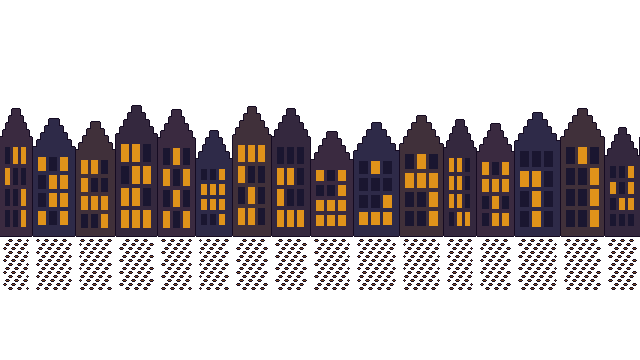
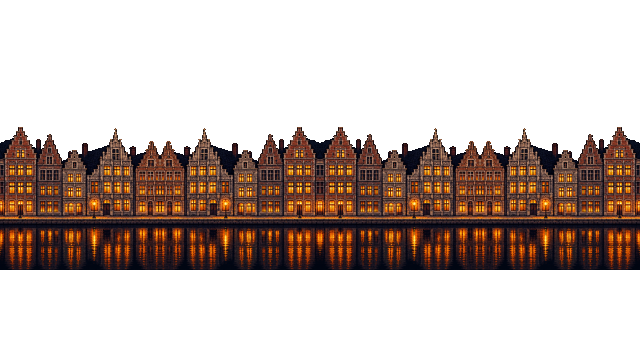
Ghent world: Higgsfield layers (Graslei, Gravensteen, canal)
Claude-Session: https://claude.ai/code/session_01QtD76jZP7ynNj9DKqbs7sk

diff --git a/src/levels/worlds/ghent.js b/src/levels/worlds/ghent.js
@@ -1,7 +1,8 @@
 // WORLD: GHENT, charlotte-de-witte's world: Ghent at night: the ink-blue canal with amber reflections, the stepped gables of the Graslei as a rooftop route, then Gravensteen castle (levels-input/charlotte-de-witte/world 01, 03, 05, 06).
 // Looks only. Gameplay files (src/levels/gameplay/) name this world but never change it.
-// Art: tools/world_djs.py draws the four layers into src/art/world/ghent/ (a first pass, made to be
-// redrawn); the 'layers' builder in src/art/background.js puts them together.
+// Art: made in Higgsfield (pictures in project files art/worlds/ghent/), shrunk into
+// src/art/world/ghent/ with `python3 tools/hf_world.py <dir> ghent far=0.6,0.6,0.62 mid=0.5,0.75,0.5
+// near=0.7,0.765,0.5 repeat=mid:2 seam=mid:mirror dim=near:0.9`; the 'layers' builder in src/art/background.js puts them together.
 export default {
   id: 'ghent',
   name: 'GHENT', // top bar
@@ -13,10 +14,10 @@ export default {
   tiles: 'tiles', // tileset (src/art/world/tiles.png, shared for now)
   pit: 'black',
   layers: [
-    'sky: night sky over the ink-blue canal (fixed)',
-    'far: Gravensteen castle towers, lit from below (0.05)',
-    "mid: the Graslei's stepped gables, amber windows reflected in the water (0.15)",
-    'near: the canal wall, street lamps and mooring posts (0.35)',
+    'sky: ink-blue night sky with faint stars over black water with amber and teal shimmer (fixed)',
+    'far: Gravensteen castle floodlit teal and orange, one red light on the keep (0.05)',
+    "mid: the Graslei's stepped gables with amber windows, reflected in the canal (0.15)",
+    'near: iron street lamps and mooring posts (0.35)',
   ],
   motifs: ['stepped gables as a rooftop route (stairs up and down)', 'drop to street level at the castle', 'the narrow stone gate before the arena', 'a red light pulsing behind her (boss)'],
 };
